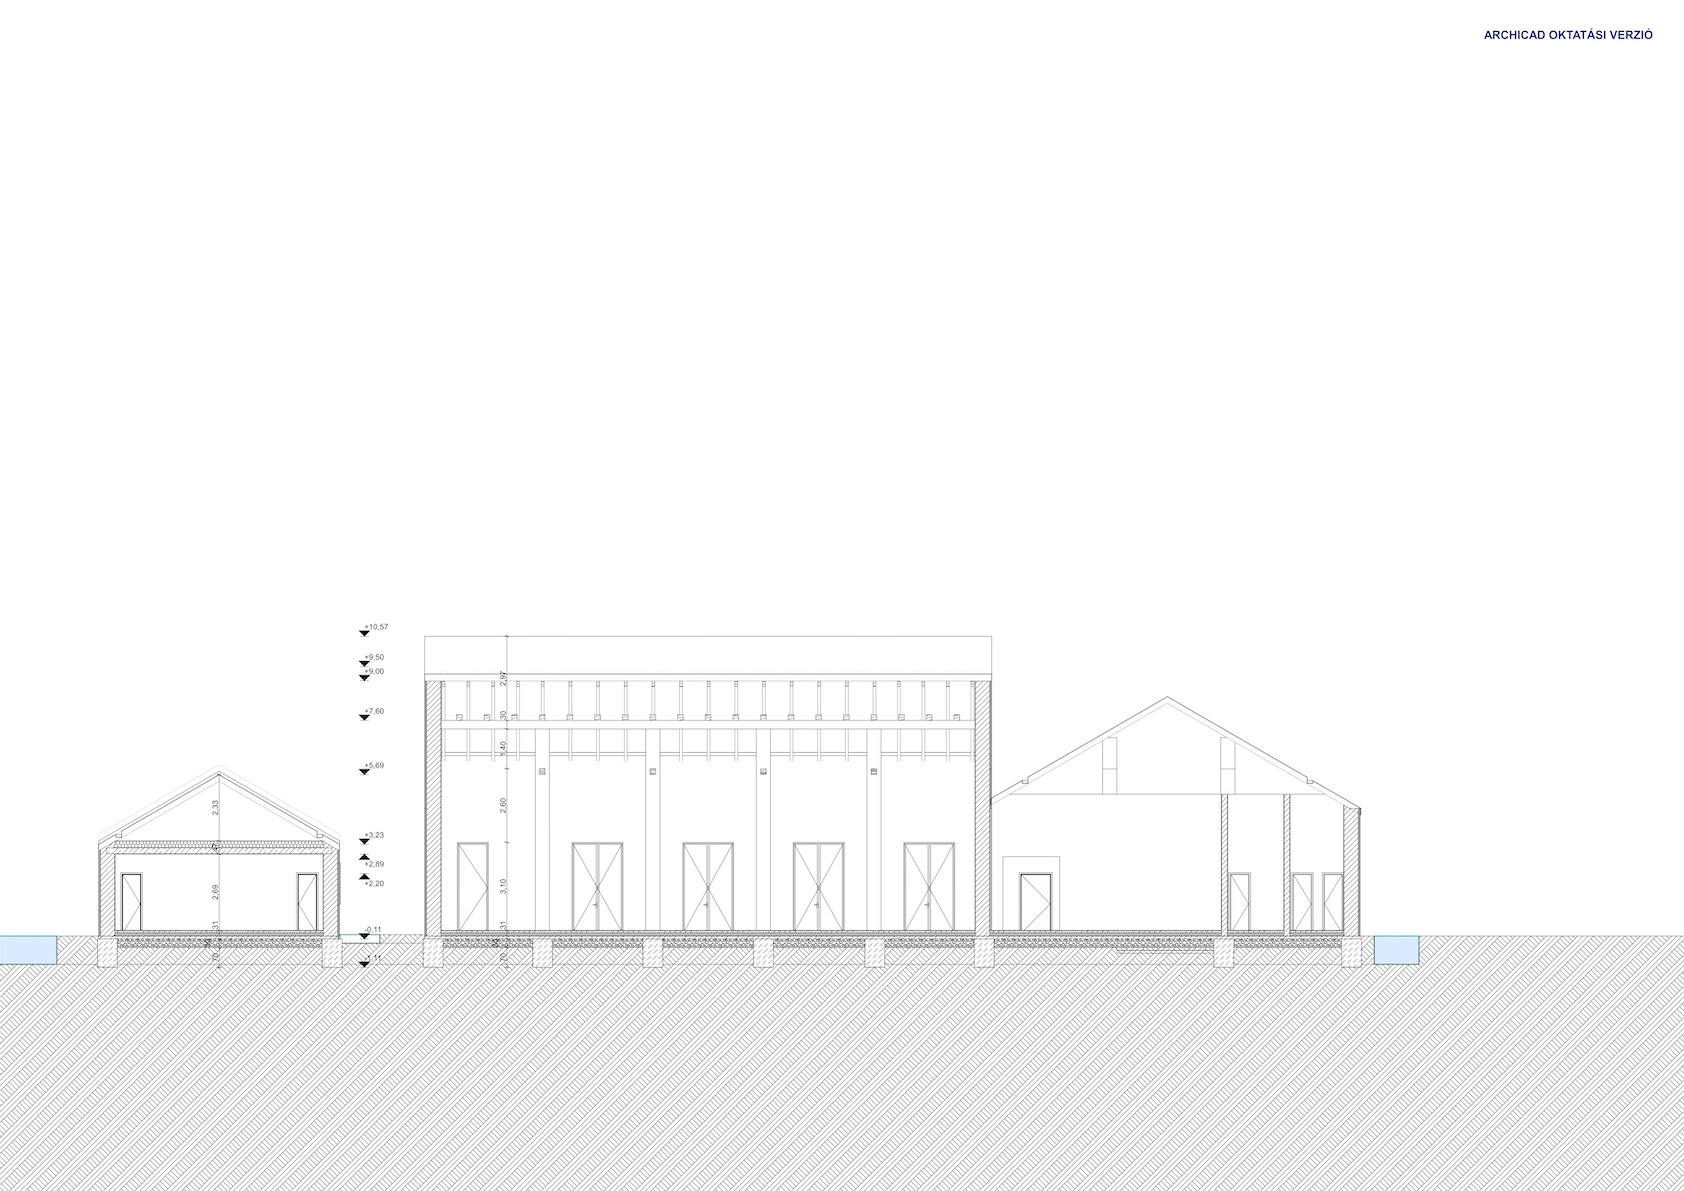
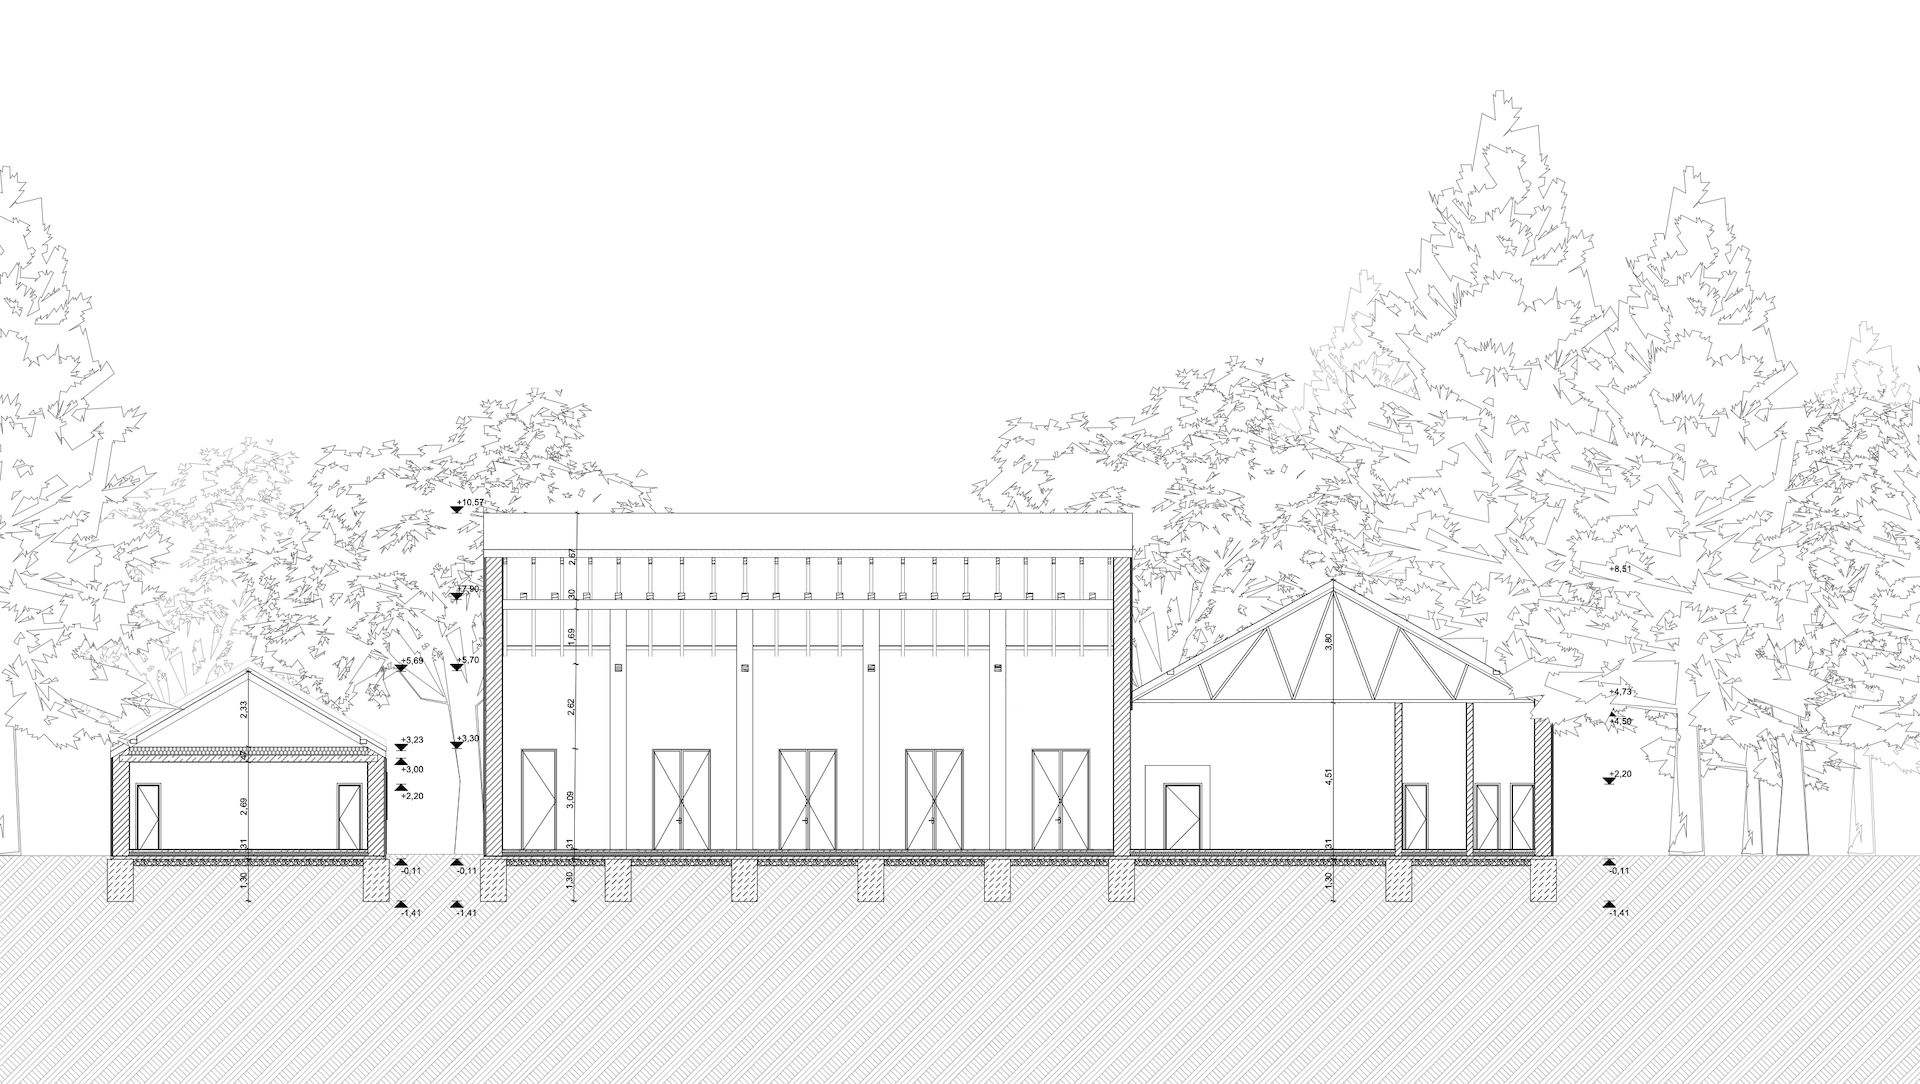
v02
Leírások, fényképek véglegesítve.
Rajzok még bővítés alatt.
Felesleges projektek elrejtve.

diff --git a/index.html b/index.html
@@ -298,8 +298,13 @@
 
     .m-info {
       background: var(--hatter);
-      padding: 28px; overflow-y: auto;
+      padding: 0; overflow: hidden;
       position: relative; display: flex; flex-direction: column;
+      height: 100%;
+    }
+    .m-scroll {
+      flex: 1; min-height: 0; overflow-y: auto;
+      padding: 28px 28px 16px 28px;
     }
     .m-close {
       position: absolute; top: 14px; right: 14px;
@@ -323,7 +328,8 @@
     }
     .m-desc {
       font-size: 12px; font-weight: 300; line-height: 1.9;
-      color: var(--muted); margin-bottom: 20px; flex-grow: 1;
+      color: var(--muted); margin-bottom: 20px;
+      text-align: justify; white-space: pre-line;
     }
     .m-pdf-inline {
       color: var(--grafit); text-decoration: underline;
@@ -360,7 +366,8 @@
 
     .m-footer {
       display: flex; align-items: center; justify-content: space-between;
-      border-top: 0.5px solid var(--border); padding-top: 12px;
+      border-top: 0.5px solid var(--border); padding: 12px 28px;
+      flex-shrink: 0;
     }
     .m-pdf-btn {
       font-size: 9px; letter-spacing: 0.14em; text-transform: uppercase;
@@ -487,8 +494,8 @@
       color: var(--grafit); margin-bottom: 32px; line-height: 1.1;
     }
     .kap_sub {
-      font-size: 14px; font-weight: 300; color: var(--muted);
-      margin-bottom: 32px; line-height: 1.8;
+      font-size: 18px; font-weight: 300; color: var(--grafit);
+      margin-bottom: 32px; line-height: 1.8; max-width: 560px; margin-left: auto; margin-right: auto;
     }
     .kap-email {
       font-size: 14px; font-weight: 300; color: var(--grafit);
@@ -521,8 +528,7 @@
       .nav-hamburger { display: flex; }
       .sec-header { flex-direction: column; align-items: flex-start; }
       .modal { max-height: 95vh; }
-      .rolam-photo, .rolam-photo-ph { aspect-ratio: 4/3; }
-      footer { flex-direction: column; gap: 6px; text-align: center; }
+footer { flex-direction: column; gap: 6px; text-align: center; }
     }
   </style>
 </head>
@@ -560,9 +566,9 @@
     </div>
   </div>
   <div class="hero-right">
-    <p class="hero-eye">Építész mérnök hallgató · Budapest</p>
+    <p class="hero-eye">Építészmérnök hallgató · Budapest</p>
     <h1 class="hero-name"><em>Németh</em><br>Anna</h1>
-    <p class="hero-tagline">Teret adni az életnek.<br>Ahol a forma találkozik az érzéssel<br>Anyag, fény, ember.</p>
+    <p class="hero-tagline">Tér. Fény. Élet.<br>Az építészet ott kezdődik,<br>ahol a forma értelmet nyer.</p>
     <a class="hero-cta" href="#projektek">
       <span class="hero-cta-line"></span>
       <span class="hero-cta-text">Munkáim</span>
@@ -602,15 +608,17 @@
       </div>
       <div class="m-info">
         <button class="m-close" onclick="closeModal()" aria-label="Bezárás">&times;</button>
-        <div class="m-cat-row">
-          <span class="m-cat-dot"></span>
-          <span class="m-cat-lbl" id="mCat"></span>
-          <span class="m-year" id="mYear"></span>
+        <div class="m-scroll">
+          <div class="m-cat-row">
+            <span class="m-cat-dot"></span>
+            <span class="m-cat-lbl" id="mCat"></span>
+            <span class="m-year" id="mYear"></span>
+          </div>
+          <h3 class="m-title" id="mTitle"></h3>
+          <p  class="m-desc"  id="mDesc"></p>
+          <div class="m-meta"  id="mMeta"></div>
+          <div class="m-thumbs" id="mThumbs"></div>
         </div>
-        <h3 class="m-title" id="mTitle"></h3>
-        <p  class="m-desc"  id="mDesc"></p>
-        <div class="m-meta"  id="mMeta"></div>
-        <div class="m-thumbs" id="mThumbs"></div>
         <div class="m-footer">
           <div id="mPdfWrap"></div>
           <div class="m-nav-btns">
@@ -658,11 +666,11 @@
   <div class="rolam-inner">
     <div>
       <p class="rolam-eye">Rólam</p>
-      <h2 class="rolam-heading"><em>Helyek,</em><br>amelyek számítanak</h2>
+      <h2 class="rolam-heading"><em>Terek,</em><br>amikben jó létezni</h2>
       <div class="rolam-body">
-        <p>Harmadéves építész mérnök hallgató vagyok az Óbudai Egyetem Ybl Miklós Építéstudományi Karán. Munkáimban a természetes anyagok, a fény és az emberléptékű terek iránt érzett szenvedélyem jelenik meg.</p>
-        <p>Projektjeim során ArchiCAD-del, Twinmotionnel és kézi rajzokkal dolgozom – hiszek abban, hogy a kéz és a digitális eszköz együtt hozza ki a legjobb tervet.</p>
-        <p>Jelenleg különösen a lakóépületek és közösségi terek tervezése érdekel.</p>
+        <p>Harmadéves építészmérnök hallgató vagyok az Óbudai Egyetem Ybl Miklós Építéstudományi Karán.</p>
+        <p>Munkáim során elsősorban ArchiCAD-del, Twinmotionnel és Photoshoppal dolgozom, de a kézi rajz és a makettezés ugyanolyan természetes része a tervezési folyamatomnak.</p>
+        <p>Tanulmányaim lakóépületek tervezéseivel indultak, majd a hangsúly fokozatosan a középületek felé tolódott. A jövőben szívesen. visszatérnék a lakóépítészethez és elmélyíteném tudásomat a belsőépítészetben is – ezek azok a területek, amelyekben a továbbiakban leginkább kibontakoznék.</p>
       </div>
       <div class="rolam-tags">
         <span class="rolam-tag">ArchiCAD</span>
@@ -670,7 +678,7 @@
         <span class="rolam-tag">Kézi rajz</span>
         <span class="rolam-tag">Makett készítés</span>
         <span class="rolam-tag">ProCreate</span>
-        <span class="rolam-tag">Adobe Photosgop</span>
+        <span class="rolam-tag">Adobe Photoshop</span>
       </div>
     </div>
     <div>
@@ -685,15 +693,14 @@
 <!-- KAPCSOLAT -->
 <section class="sec-kapcsolat" id="kapcsolat">
   <p class="kap-eye">Kapcsolat</p>
-  <h2 class="kap-heading">Dolgozzunk együtt</h2>
-  <p class="kap_sub">Nyitott vagyok szakmai együttműködésekre, tervezési feladatokra és gyakornoki lehetőségekre.</p>
+  <p class="kap_sub">Szívesen csatlakoznék egy inspiráló irodához, hogy a tanulmányaimat gyakorlati tapasztalattal egészítsem ki.</p>
   <a class="kap-email" href="mailto:nemeth.anna0310@gmail.com">nemeth.anna0310@gmail.com</a>
 </section>
 
 <!-- FOOTER -->
 <footer>
   <span class="ft-copy">© 2026 Németh Anna</span>
-  <span class="ft-sub">Építész mérnök hallgató, Ybl Miklós Építéstudományi Kar</span>
+  <span class="ft-sub">Építészmérnök hallgató, Ybl Miklós Építéstudományi Kar</span>
 </footer>
 
 <script>
@@ -701,21 +708,22 @@
 const PROJECTS = [
   {
     id: 1,
-    title: "Kápolna, Digitális Tanya - Négyszállási iskola, Jászberény",
+    title: "Synergic Spaces - Négyszállási iskola, Jászberény",
     hidden: false,
     year: "2026",
     cats: ["Stúdióterv","Látványterv","Rajz","Plakát"],
     type: "Közösségi épület",
-    desc: "A projekt egy digitális tanyán elhelyezkedő kápolna tervezési feladatát dolgozta fel. A tér és a szakralitás viszonyát, a természeti környezethez való illeszkedést vizsgálta. A tervezési folyamat során ArchiCAD, Twinmotion és kézi rajz eszközök egyaránt szerepet kaptak.",
-    tools: "ArchiCAD, Twinmotion, Adobe Photoshop",
+    desc: "A tervezés kiindulópontja az alföldi táj, a szakralitás és a tér viszonyának kutatása volt, egy tanyasi kápolna megformálásán keresztül. A kezdeti fázisban a hagyományos vidéki csűrök tömegformálását és a védett gazdasági udvarok térszervezési logikáját vizsgáltam.\nA munka előrehaladtával a funkciók köre organikusan bővült: a fókusz egy elméleti és gyakorlati alkotómunkát befogadó komplexumra helyeződött át. A tervezési kihívást a különböző zónák egyetlen koherens rendszerbe integrálása jelentette.\nA folyamat végére a koncepció egy teljes épületegyüttessé („Synergic Spaces”) érett, ahol a kápolna a közösségi és privát tereket egyensúlyozó szövet szerves részévé vált. ",
+    tools: "ArchiCAD, Twinmotion, Makett Render",
     semester: "2025/26 tavasz",
     thumb: "assets/projekt1_thumb.png",
     fp: "center",
     imgs: [
-      "assets/projekt1_thumb.png","assets/projekt1_1.png","assets/projekt1_2.png",
-      "assets/projekt1_3.png","assets/projekt1_4.png","assets/projekt1_5.png",
+      "assets/projekt1_thumb.png",
+      "assets/projekt1_5.png","assets/projekt1_4.png",
       "assets/projekt1_6.png","assets/projekt1_7.png","assets/projekt1_8.png",
-      "assets/projekt1_9.png","assets/projekt1_10.png", "assets/projekt1_tablo.png"
+      "assets/projekt1_9.png","assets/projekt1_10.png", "assets/projekt1_1.png","assets/projekt1_2.png", 
+      "assets/projekt1_11.png", "assets/projekt1_12.png", "assets/projekt1_13.png", "assets/projekt1_tablo.png"
     ],
     pdf: [
       {name: "Tervdokumentáció", src: "assets/projekt1_terv.pdf"},
@@ -728,18 +736,18 @@ const PROJECTS = [
     hidden: false,
     year: "2025",
     cats: ["Látványterv", "Stúdióterv", "Plakát"],
-    type: "Közösségi épület, Urbanisztika",
-    desc: "Közösségi és urbanisztikai szemléletet ötvöző látványtervek sorozata. A projekt célja egy városi tér újragondolása volt Twinmotion segítségével, hangsúlyt fektetve a közösségi funkciókra és a természetes megvilágításra.",
-    tools: "Twinmotion, ArchiCAD, Adobe Photoshop",
-    semester: "2024/25 tavasz",
+    type: "Közösségi épület",
+    desc: "A Népszigetre tervezett Ifjúsági Tudományos Tábor a felfedezés folyamatát modellezi. Tömegalakítása additív: a funkcionális kubusok tudás-építőkockákként rakódnak egymásra. Ezt a szigorú geometriát a szintek tengely körüli elforgatása oldja fel, amely dinamikus sziluettet hoz létre, és izgalmasan reagál a sziget természeti, illetve ipari örökségére.\nA szintek eltolása közvetlen kapcsolatot teremt a környezettel. A kilógó födémrészek teraszokként, zöldtetőkként és kilátópontokként integrálják az épületet a folyóparti tájba. Ezek a magaslati kertek a belső terek szabadtéri kiterjesztései, egyedülálló helyszínt biztosítva az oktatásnak, a kísérletezésnek és a csillagászati megfigyeléseknek.\nA belső térszervezés a transzparenciától a fokozatos intimitás felé halad. A földszint a közösségi élet nyitott tere, amelyre az elmélyült munkát szolgáló laboratóriumok és oktatótermek épülnek rá. A legfelső, legcsendesebb szint a panorámás diákszállásoké. Az épület így egy olyan inspiráló struktúra, amely formavilágával is kreatív gondolkodásra ösztönöz.",
+    tools: "Twinmotion, ArchiCAD, Adobe Photoshop, Makett Render",
+    semester: "2025/26 ősz",
     thumb: "assets/projekt2_thumb.png",
     fp: "center",
     imgs: [
-      "assets/projekt2_thumb.png","assets/projekt2_1.png","assets/projekt2_2.png",
-      "assets/projekt2_3.png","assets/projekt2_4.png","assets/projekt2_5.png",
+      "assets/projekt2_thumb.png","assets/projekt2_5.png",
       "assets/projekt2_6.png", "assets/projekt2_7.png", "assets/projekt2_8.png",
       "assets/projekt2_9.png", "assets/projekt2_10.png", "assets/projekt2_11.png",
-      "assets/projekt2_12.png", "assets/projekt2_tablo.png"
+      "assets/projekt2_12.png", "assets/projekt2_1.png","assets/projekt2_2.png",
+      "assets/projekt2_4.png", "assets/projekt2_tablo.png"
     ],
     pdf: [
       {name: "Tervdokumentáció", src: "assets/projekt2_terv.pdf"},
@@ -751,19 +759,18 @@ const PROJECTS = [
     title: "The Sweet Flow - Bajza utca, Terézváros",
     hidden: false,
     year: "2025",
-    cats: ["Látványterv", "Stúdióterv", "Rajz", "Makett", "Plakát"],
-    type: "Közösségi épület, Urbanisztika",
-    desc: "Közösségi és urbanisztikai szemléletet ötvöző látványtervek sorozata. A projekt célja egy városi tér újragondolása volt Twinmotion segítségével, hangsúlyt fektetve a közösségi funkciókra és a természetes megvilágításra.",
-    tools: "Twinmotion, ArchiCAD, Adobe Photoshop, Makett",
+    cats: ["Látványterv", "Stúdióterv", "Plakát"],
+    type: "Közösségi épület",
+    desc: "A Terézvárosban, a Szondi utca 60. szám alatti foghíjtelek beépítése egy befogadó, harmonikus középület létrehozására tesz kísérletet. A tervezés során a meglévő épületszerkezet megtartása mellett egy új, egységes tömegformálás jött létre, amely finoman illeszkedik a történelmi városszövetbe. A projekt az „A Sweet Flow” nevet kapta, célja pedig a testi-lelki feltöltődés és a minőségi emberi találkozások integrálása egyetlen térbeli keretbe.\nA belső térszervezés a különböző hangulati és használati igények tudatos elválasztására épül. A jóga- és pilates stúdiók befelé forduló, meditatív atmoszférája izgalmas kontrasztot alkot a kiegészítő funkcióként működő cukrászda nyitottabb, nyüzsgő karakterével. Ezt a kettősséget az épület visszafogott színpalettája és koherens építészeti nyelve oldja fel, egyetlen összehangolt élménnyé gyúrva a különböző funkciókat.\nA terek atmoszféráját a természetes fény és a modern, letisztult anyaghasználat határozza meg. Az utcafronti homlokzat nagyvonalú megnyitásai nemcsak a funkciók bevilágítását szolgálják, hanem hangulati elemként irányítják a térélményt. A beáramló fény finoman kiemeli a felületek textúráját, és megteremti a stúdiókban azt az egyensúlyt és nyugalmat, amely az épületet a puszta kiszolgálás helyett a minőségi „jelenlét” terévé emeli.",
+    tools: "Twinmotion, ArchiCAD, Adobe Photoshop",
     semester: "2024/25 tavasz",
     thumb: "assets/projekt3_thumb.png",
     fp: "center",
     imgs: [
-      "assets/projekt3_thumb.png","assets/projekt3_1.png","assets/projekt3_2.png",
-      "assets/projekt3_3.png","assets/projekt3_4.png","assets/projekt3_5.png",
+      "assets/projekt3_thumb.png","assets/projekt3_4.png","assets/projekt3_5.png",
       "assets/projekt3_6.png", "assets/projekt3_7.png", "assets/projekt3_8.png",
-      "assets/projekt3_9.png", "assets/projekt3_10.png", "assets/projekt3_11.png",
-      "assets/projekt3_12.png", "assets/projekt3_tablo.png"   
+      "assets/projekt3_9.png", "assets/projekt3_10.png", "assets/projekt3_1.png","assets/projekt3_2.png",
+      "assets/projekt3_3.png", "assets/projekt3_tablo.png"   
     ],
     pdf: [
       {name: "Tervdokumentáció", src: "assets/projekt3_terv.pdf"},
@@ -773,7 +780,7 @@ const PROJECTS = [
   {
     id: 4,
     title: "A Breath Of Green - Veres Pálné utca, Lakóépület",
-    hidden: false,
+    hidden: true,
     year: "2024",
     cats: ["Stúdióterv", "Rajz", "Makett", "Plakát"],
     type: "Lakóépület",
@@ -793,16 +800,16 @@ const PROJECTS = [
     id: 5,
     title: "Rajzok",
     hidden: false,
-    year: "2026-2026",
+    year: "2024-2026",
     cats: ["Rajz"],
     type: "Rajz",
-    desc: "Kézi rajzok sorozata lakóépületek tervezési folyamatából. Az analóg technika lehetővé teszi a gyors ötletgenerálást és a tér közvetlen érzékelését, amit digitális eszközökkel nehezen lehet pótolni.",
+    desc: "Szabadkézi rajzok sorozata. A vonal mint eszköz – megfigyelések, hangulatok, pillanatok rögzítése. Az analóg technika közvetlensége olyasmit ad vissza, amit digitálisan nehéz visszaadni.",
     tools: "Kézi rajz",
     semester: "2024/25 tavasz",
     thumb: "assets/projekt5_thumb.png",
     fp: "center",
     imgs: [
-      "assets/projekt5_thumb.png", "assets/projekt5_1.png", "assets/projekt5_2.png", "assets/projekt5_3.png",
+      "assets/projekt5_thumb.png"
     ],
     pdf: null
   },
@@ -813,7 +820,7 @@ const PROJECTS = [
     year: "2024",
     cats: ["Plakát"],
     type: "Plakát",
-    desc: "Közösségi épületek plakáttal való promoválása. A plakátterv célja a projekt elterjesztése és a közösségi érdeklődés felkeltése.",
+    desc: "Építészeti projektek grafikai reprezentációi. Forma, tipográfia és kompozíció egységében kommunikálják a tervezési koncepciót.",
     tools: ["Adobe Photoshop", "Twinmotion", "ArchiCAD"],
     semester: "2023/24 tavasz",
     thumb: "assets/projekt1_tablo.png",
@@ -826,7 +833,7 @@ const PROJECTS = [
   {
     id: 7,
     title: "Makettek",
-    hidden: false,
+    hidden: true,
     year: "2024",
     cats: ["Makett"],
     type: "Közösségi épület",
